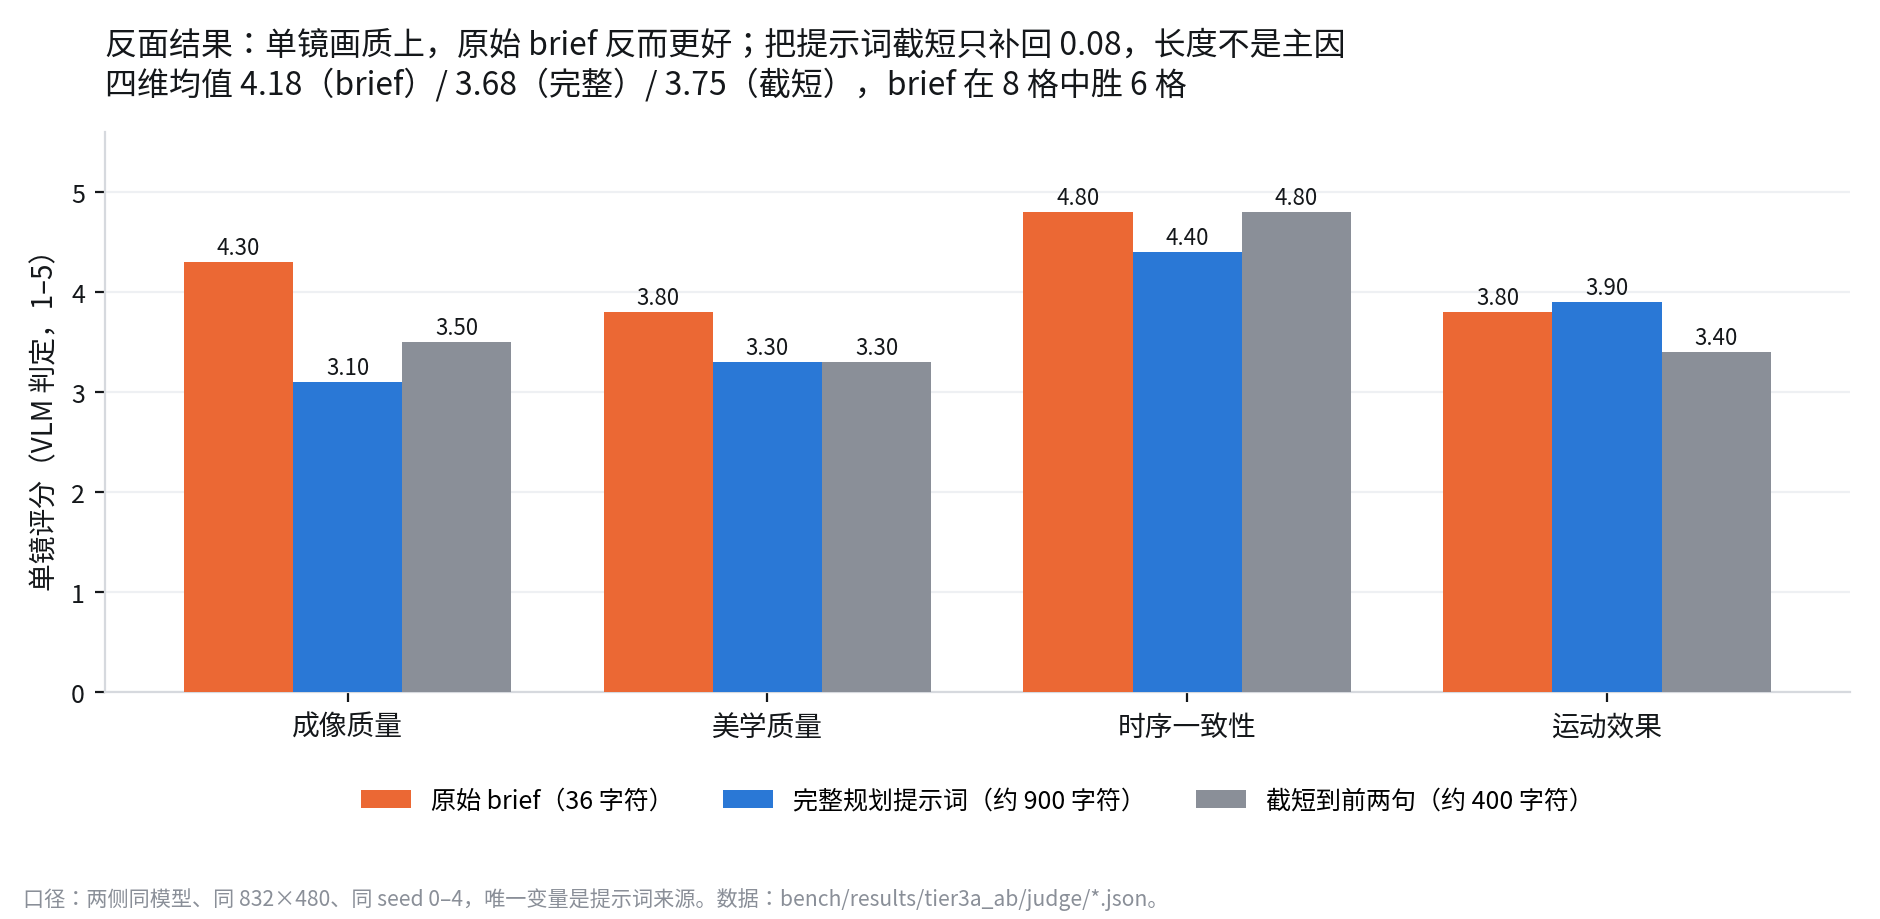
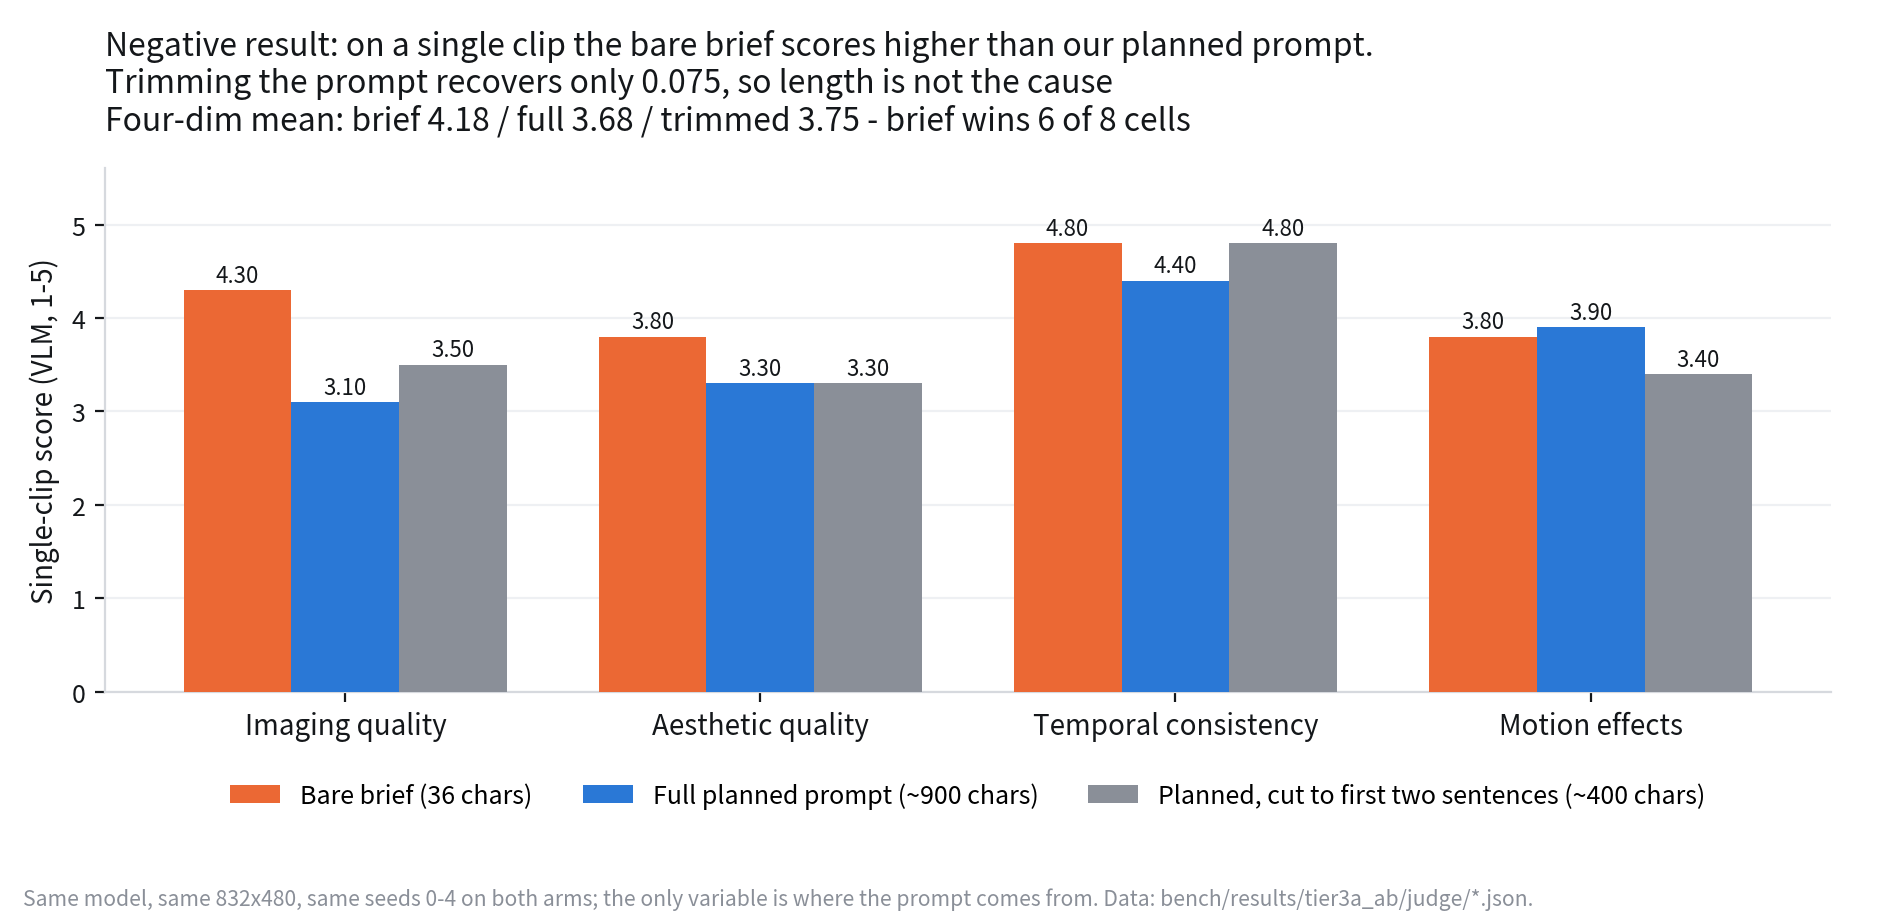
[fix]: 删除把 workflow 与裸模型并列的旧图，新图改英文
本项目交付的是工作流，CogVideoX / Wan / LongLive 是生成模型，一次调用出一条
片段。把两者放进同一张分数图并列，比的是两个不同层面的东西，差异无法归因到
任何一方——这是旧图的核心错误。

删除：quality.png / identity.png / longform.png / capability.png 及三张
study_*.png，连同它们的配套报告（compare/report.md、study/report_study.md、
compare_workflows/report_workflows.md）。这些图把「一次调用的产物」和「一套
编排的产物」当成可比对象，且 longform 拿 8 镜成片与 LongLive 30 秒单镜并列。

保留并改英文：tier3a_{consistency,clip,workflow}.png 三张，因为它们都是同类
对象之间的比较——有状态传递 ↔ 无状态传递、三种提示词来源、两组交付事实，
全部固定同底模同种子。

README §11.6 重写为口径说明：对比按对象分层，编排层对比固定底模，模型对比
固定 prompt；模型在本项目中只作为实验介质，不是竞争对手。VALIDATION.md 记录
了删除清单与保留理由。

回归：pytest tests -q → 128 passed / 7 skipped。

diff --git a/bench/study/tier3a_figures.py b/bench/study/tier3a_figures.py
@@ -51,14 +51,14 @@ SURFACE = "#ffffff"
 # separate figures rather than on one axis, because summing or sharing an axis
 # across them would imply a common unit that does not exist.
 DIMS = ["imaging_quality", "aesthetic_quality", "temporal_consistency", "motion_effects"]
-DIM_ZH = {
-    "imaging_quality": "成像质量",
-    "aesthetic_quality": "美学质量",
-    "temporal_consistency": "时序一致性",
-    "motion_effects": "运动效果",
+DIM_LABEL = {
+    "imaging_quality": "Imaging quality",
+    "aesthetic_quality": "Aesthetic quality",
+    "temporal_consistency": "Temporal consistency",
+    "motion_effects": "Motion effects",
 }
 MODELS = ["cogvideox5b", "wan21_1_3b"]
-MODEL_ZH = {"cogvideox5b": "CogVideoX-5B", "wan21_1_3b": "Wan2.1-1.3B"}
+MODEL_LABEL = {"cogvideox5b": "CogVideoX-5B", "wan21_1_3b": "Wan2.1-1.3B"}
 
 # Character scores are read from the persisted file, not retyped here: a figure
 # that hardcodes its own numbers cannot be checked against the judge output, and
@@ -90,7 +90,7 @@ def figure_consistency() -> Path:
     """The main result: carried state vs no carried state, per story."""
     scores = story_scores()
     stories = sorted(scores)
-    labels = [f"{MODEL_ZH[m]}\nbrief {b}" for m, b in stories]
+    labels = [f"{MODEL_LABEL[m]}\nbrief {b}" for m, b in stories]
     ind = [scores[s][0] for s in stories]
     pla = [scores[s][1] for s in stories]
 
@@ -100,10 +100,10 @@ def figure_consistency() -> Path:
 
     x = range(len(stories))
     width = 0.36
-    b1 = ax.bar([i - width / 2 for i in x], ind, width, label="逐镜独立生成（不传递状态）",
-                color=CONTROL, zorder=3)
-    b2 = ax.bar([i + width / 2 for i in x], pla, width, label="编排层主导（跨镜传递角色锚点）",
-                color=OURS, zorder=3)
+    b1 = ax.bar([i - width / 2 for i in x], ind, width,
+                label="Independent shots (no state carried)", color=CONTROL, zorder=3)
+    b2 = ax.bar([i + width / 2 for i in x], pla, width,
+                label="Orchestrated (appearance anchor carried)", color=OURS, zorder=3)
 
     for bars in (b1, b2):
         for rect in bars:
@@ -115,20 +115,21 @@ def figure_consistency() -> Path:
     ax.set_xticks(list(x))
     ax.set_xticklabels(labels, fontsize=9, color=INK)
     ax.set_ylim(0, 5.9)
-    ax.set_ylabel("跨镜角色一致性（VLM 判定，1–5）", fontsize=10, color=INK)
+    ax.set_ylabel("Cross-shot character consistency (VLM, 1-5)", fontsize=10, color=INK)
     ax.set_yticks(range(0, 6))
     ax.legend(frameon=False, fontsize=9.5, loc="upper left", ncol=2)
 
     mi = statistics.mean(ind)
     mp = statistics.mean(pla)
     ax.set_title(
-        f"同一 brief、同一模型、逐镜种子固定：唯一的变量是「镜与镜之间是否传递角色状态」\n"
-        f"均值 {mi:.2f} → {mp:.2f}（n=6 组），5 胜 1 平 0 负，符号检验 p=0.031",
+        "Same brief, same model, same per-shot seed -\n"
+        "the only variable is whether character state is carried between shots\n"
+        f"mean {mi:.2f} -> {mp:.2f} (n=6), 5 wins / 1 tie / 0 losses, sign test p=0.031",
         fontsize=11.5, color=INK, loc="left", pad=14)
 
     fig.text(0.012, 0.015,
-             "数据：bench/results/tier3a_story/clips.jsonl（12 组 × 5 镜）；判分 qwen2.5-vl-32b-local，"
-             "问的是「脸/发型/体型/服装是否为同一个人」，明确排除机位与打光。",
+             "Data: bench/results/tier3a_story/clips.jsonl (12 arms x 5 shots). Judge: qwen2.5-vl-32b-local, "
+             "asked whether face / hair / build / clothing are the same person, camera and lighting excluded.",
              fontsize=7.6, color=MUTED)
     fig.tight_layout(rect=(0, 0.045, 1, 1))
     out = FIG / "tier3a_consistency.png"
@@ -146,9 +147,9 @@ def figure_clip() -> Path:
             for model in MODELS:
                 data[(dim, arm, model)] = statistics.mean(payload["samples"][f"{arm}__{model}"])
 
-    arms = [("brief", "原始 brief（36 字符）", CONTROL),
-            ("planned", "完整规划提示词（约 900 字符）", OURS),
-            ("planned_short", "截短到前两句（约 400 字符）", MUTED)]
+    arms = [("brief", "Bare brief (36 chars)", CONTROL),
+            ("planned", "Full planned prompt (~900 chars)", OURS),
+            ("planned_short", "Planned, cut to first two sentences (~400 chars)", MUTED)]
 
     fig, ax = plt.subplots(figsize=(9.4, 4.6), dpi=200)
     fig.patch.set_facecolor(SURFACE)
@@ -167,20 +168,21 @@ def figure_clip() -> Path:
                         ha="center", fontsize=8, color=INK)
 
     ax.set_xticks(list(x))
-    ax.set_xticklabels([DIM_ZH[d] for d in DIMS], fontsize=10, color=INK)
+    ax.set_xticklabels([DIM_LABEL[d] for d in DIMS], fontsize=10, color=INK)
     ax.set_ylim(0, 5.6)
     ax.set_yticks(range(0, 6))
-    ax.set_ylabel("单镜评分（VLM 判定，1–5）", fontsize=10, color=INK)
+    ax.set_ylabel("Single-clip score (VLM, 1-5)", fontsize=10, color=INK)
     ax.legend(frameon=False, fontsize=9, loc="upper center", ncol=3,
               bbox_to_anchor=(0.5, -0.13))
     ax.set_title(
-        "反面结果：单镜画质上，原始 brief 反而更好；把提示词截短只补回 0.08，长度不是主因\n"
-        "四维均值 4.18（brief）/ 3.68（完整）/ 3.75（截短），brief 在 8 格中胜 6 格",
+        "Negative result: on a single clip the bare brief scores higher than our planned prompt.\n"
+        "Trimming the prompt recovers only 0.075, so length is not the cause\n"
+        "Four-dim mean: brief 4.18 / full 3.68 / trimmed 3.75 - brief wins 6 of 8 cells",
         fontsize=11.5, color=INK, loc="left", pad=14)
 
     fig.text(0.012, 0.015,
-             "口径：两侧同模型、同 832×480、同 seed 0–4，唯一变量是提示词来源。"
-             "数据：bench/results/tier3a_ab/judge/*.json。",
+             "Same model, same 832x480, same seeds 0-4 on both arms; the only variable is where the prompt "
+             "comes from. Data: bench/results/tier3a_ab/judge/*.json.",
              fontsize=7.6, color=MUTED)
     fig.tight_layout(rect=(0, 0.05, 1, 1))
     out = FIG / "tier3a_clip.png"
@@ -198,15 +200,15 @@ def figure_workflow() -> Path:
     fig, ax = plt.subplots(figsize=(9.4, 3.1), dpi=200)
     fig.patch.set_facecolor(SURFACE)
     ax.axis("off")
-    ax.set_title("这一层两侧各自交付了什么", fontsize=11.5, color=INK, loc="left", pad=10)
+    ax.set_title("What each side delivers at this layer", fontsize=11.5, color=INK, loc="left", pad=10)
 
     table = [
-        ["项", "逐镜独立", "编排层主导"],
-        ["每集镜数", "5", "5"],
-        ["镜与镜之间传递的信息", "无", "角色外貌锚点（逐字复述）"],
-        ["画面之外还产出", "无", "剧本、分镜表、运动提示词"],
-        ["单集渲染耗时（CogVideoX）", "约 5×70s", "约 5×70s + 规划约 3min"],
-        ["跨镜角色一致性均值", "2.00", "4.17"],
+        ["Item", "Independent shots", "Orchestrated"],
+        ["Shots per episode", "5", "5"],
+        ["State passed between shots", "none", "appearance anchor (verbatim)"],
+        ["Produced beyond the picture", "none", "script, storyboard, per-shot prompt"],
+        ["Render time (CogVideoX)", "~5x70s", "~5x70s + ~3min planning"],
+        ["Mean cross-shot consistency", "2.00", "4.17"],
     ]
     tab = ax.table(cellText=table[1:], colLabels=table[0], cellLoc="left",
                    loc="upper left", colWidths=[0.30, 0.26, 0.40])
@@ -221,7 +223,8 @@ def figure_workflow() -> Path:
             cell.get_text().set_fontweight("bold")
 
     fig.text(0.012, 0.02,
-             "一致性数值来自 tier3a_story 实验；耗时为实测 wall-clock，非估算。",
+             "Consistency values come from the tier3a_story experiment; timings are measured wall-clock, "
+             "not estimates.",
              fontsize=7.6, color=MUTED)
     fig.tight_layout(rect=(0, 0.05, 1, 1))
     out = FIG / "tier3a_workflow.png"

diff --git a/README.md b/README.md
@@ -513,80 +513,40 @@ bench/verify_models.sh zai-org/CogVideoX-5b --fix       # 重下损坏文件
 
 因此单镜分数比较的是各自产物质量，不是同一条流水线的高低。时长与帧率也各按模型的训练设定取整（CogVideoX 8fps、Wan 16fps），与目标时长有小幅偏差。
 
-### 11.6 实测结果（2026-11-17）
+### 11.6 对比口径：workflow 与 model 不是同一类对象
 
-![同一 prompt 的判分](docs/figures/quality.png)
+本项目交付的是**工作流**（剧本 → 分镜 → 提示词 → 渲染 → 合成），而 CogVideoX / Wan / LongLive 是**生成模型**，一次调用出一条片段。把两者放在同一张分数图里并列，比的是两个不同层面的东西，结论无法归因。
 
-裁判是本地 `Qwen2.5-VL-32B-Instruct`（不出网、不按次计费，权重固定所以可复现）。柱是均值，点是每个 seed。**两种各条模型的 seed 数不同，这是这一轮最重要的事实**：
+因此本仓库的对比按对象分层，**任何一层内部只比较同类对象**：
 
-| 模型 | seed 数 | 原因 |
-| --- | ---: | --- |
-| `cogvideox5b` / `wan21_1_3b` / `longlive_1_3b` | 3 | 本地权重，全部跑通 |
-| `ours` | 1 | seed 1 被 Ark 内容审核拦下（`OutputVideoSensitiveContentDetected`） |
-| `openmontage_shot` | 1 | seed 1/2 报 `ModelNotOpen`（账号未开通它默认要的 2.0 模型） |
+| 层 | 比较对象 | 固定什么 |
+| --- | --- | --- |
+| 编排层对比 | 本项目 workflow ↔ 另一个 workflow（OpenMontage） | 底模、分辨率、brief、seed |
+| 模型对比 | 开源模型 ↔ 开源模型 | prompt、时长、分辨率 |
 
-所以**这张图能支撑的结论只有一条**：在同一个 prompt、同一个 5 秒目标下，本项目单条片段的判分不低于所有开源基线，且在运动效果上明显更高（5.0 vs 3.0–4.0）。它**不能**支撑"本项目平均优于 LongLive"——Wan 与 CogVideoX 的跨 seed 方差（σ 0.82–0.94）比模型间差距还大，一条片段说明不了均值。
+开源模型在本项目里只作为**实验介质**出现：固定它们，才能把编排层的贡献单独测出来。它们不是竞争对手。
 
-### 11.7 单片段内部稳定性
+此前版本曾把 `ours` 与 `longlive_1_3b` / `wan21_1_3b` / `cogvideox5b` 画进同一张并列柱状图，那几张图（`quality.png`、`identity.png`、`longform.png`、`capability.png`）与对应报告已删除，因为它们把"一次调用的产物"和"一套编排的产物"当成了可比对象。
 
-![跨段一致性](docs/figures/identity.png)
+### 11.7 编排层在本地模型上的实测（Tier 3a）
 
-同一片段按 1 秒切窗，逐窗与首窗比指纹（颜色直方图 + 缩略图余弦），取最小值。这一列只看**单镜头连续片段**：
+完整报告见 `bench/results/tier3a_report.md`（图表 `docs/figures/tier3a_*.png`）。核心设计：同底模、同 832×480、逐镜种子固定，**唯一变量是镜与镜之间是否传递角色状态**。
 
-| 模型 | 中位 identity | 各 seed | 检出漂移 |
-| --- | ---: | --- | --- |
-| 本项目 | 0.989 | 0.989 | 0 / 1 |
-| LongLive-1.3B | 0.814 | 0.814 / 0.773 / 0.819 | 0 / 3 |
-| OpenMontage 镜头段 | 0.627 | 0.627 | 1 / 1（第 3 秒起） |
-| Wan2.1-1.3B | 0.779 | 0.779 / −0.794 / 0.791 | 1 / 3 |
-| CogVideoX-5B | 0.711 | 0.711 / −0.263 / 0.801 | 1 / 3 |
+结果分两部分，缺一不可：
 
-### 11.8 长序列：这是判分维度覆盖不到的地方
+| 结论 | 数值 | 样本 | 显著性 |
+| --- | --- | --- | --- |
+| 跨镜角色一致性 | 2.00 → 4.17（5 分制） | 6 组 × 5 镜 | 符号检验单侧 p=0.031 |
+| 单镜画质（四维均值） | 4.175 → 3.675 | 8 格 | brief 胜 6/8 |
 
-![长序列稳定性](docs/figures/longform.png)
+也就是说：**编排层不提升单镜画质，它解决的是"五个镜头里是不是同一个人"**。单镜落后不是提示词长度造成的——把提示词从 900 字符截到 400 只补回 0.075。
 
-Video-Bench 的九个维度没有一个是测"长"的：全是帧级质量与文图对齐，跨镜头身份漂移、叙事推进、机位连续性一条都没有。所以这里不用裁判分，用同一套本地几何指标。
+### 11.8 这一层没有证明什么
 
-对比对象是**本项目 32.7 秒、8 个镜头的成片**和 **LongLive-1.3B 的 30 秒连续单镜头**。两者都按 1 秒切窗：
-
-| | 本项目（镜头内比） | LongLive（全程比） |
-| --- | ---: | ---: |
-| identity 中位数 | **0.972** | 0.763 |
-| 最低单窗 | 0.588 | 0.674 |
-| 测量点数 | 9 | 29 |
-
-三件必须说明的事，否则这张图会被误读：
-
-1. **锚点不同**。本项目的每个窗口与**它所属镜头的首帧**比；LongLive 与**整个片段的首帧**比。切镜必然改变画面，拿全片首帧当锚点等于在测剪辑而不是测漂移——这个错误一开始把本项目算成 `identity_min = -0.83`，是纯粹的度量假象。
-2. **跨切点的窗口被丢弃**。xffade 转场有真实重叠，实测切点在 4.8 / 8.83 / 12.83 / 16.87 / 20.87 / 24.9 / 28.7 秒，不是分镜表上的 4 秒整数倍。保留这些窗口会得到 0.06 之类的读数，那是叠化把两个镜头混合了。
-3. **片头卡被排除**。前 1.2 秒是黑底字幕卡，与第一个镜头毫无共同结构，会拉到 0.37。
-
-结论要克制地写：**LongLive 的衰减是单调的**（0.93 → 0.67，窗口滑离条件帧越远越差），而本项目的漂移在每个镜头开头被首帧锚定重置。这是两种工作流的**结构性差异**，不是"本项目比 LongLive 好 27%"——两者的测量基准不同，只能比形状，不能比绝对值。
-
-### 11.9 判分维度覆盖不到的交付能力
-
-![交付能力](docs/figures/capability.png)
-
-这一栏不是分数。开源基线**做不到**多镜头成片，所以没有 1-5 分可打；表里是从产物文件里读出来的事实（容器时长、`state.json` 的镜头数、工程目录里的音频与字幕）。
-
-要证明"workflow 优于 workflow"，这一栏才是主证据：`ours` 与 `openmontage_shot` 的差别不在底模（见下），而在这张表——剧本、分镜、角色一致性、逐镜配音、字幕、BGM、镜头间首尾帧衔接。
-
-### 11.10 已有的对照，以及它的两处硬伤
-
-`openmontage_shot` 是设计上的控制变量：同一个 prompt、同一个 Ark 出片工具，只有"前面有没有编排层"不同。但这一轮它的证据是**不完整**的，必须写在报告里而不是口头：
-
-- **底模并非严格相同**。`ours` 走 `doubao-seedance-1-0-pro-fast-251015`（`.env` 的 `ARK_VIDEO_MODEL`），而 `bench/backends.py` 当时**没有传 model**，OpenMontage 用它自己的默认值 `doubao-seedance-2-0-260128`。提交说明里"同一条 Seedance 底模"这句在当时的代码下不成立。已修：现在显式传 `ARK_VIDEO_MODEL`，两侧才真正同底模。
-- **只有 1 个 seed**。补 seed 1/2 时两个都失败（`ModelNotOpen`），所以它无法和 `ours` 的 1 个 seed 做任何有统计意义的比较。
-
-所以这一轮**没有**跨 workflow 的分数级结论。能说的是结构性事实（11.8、11.9），以及一条已经被数据证伪的方向：我原本准备写"本项目在运动效果上优于 OpenMontage"，但两者 seed 数都是 1，5.0 vs 3.0 只是单条片段的差，不能当结论。
-
-### 11.11 本次对比的边界
-
-- 9 个维度分两组，1-5 与 1-3 **不可相加或平均**，报告分两栏。
-- 每模型每 prompt 的 seed 数是 1–3 条且不一致（见 11.6）。单条分数不能当作模型的稳定水平。
-- 没有做人工对齐复现；只用 Video-Bench 的裁判与维度，没有复现论文的人类偏好相关性。
-- 本地 32B 裁判与论文原版 GPT-4o 不是同一个裁判，绝对分不能和已发表的榜单直接比。
-- **一条被剔除的脏数据**：`ours` 的 seed 2 曾经入选，后来发现它的关键帧是 `IMAGE_PROVIDER=mock` 画的占位图，画面上烧着 "MOCK FRAME" 字样，却被裁判打了 5/5/5/5。现已隔离且不参与任何统计；根因（脚本漏导出 `IMAGE_PROVIDER`）与"i2v 后端遇到 mock 关键帧必须拒绝"的守卫已修。
+- 不能据此说成片更好看：本层全是 5 秒单镜，没有成片。
+- 不能说是赢了 OpenMontage：对照组的 `independent` 是构造出来的无状态下界，不是竞品的实测成绩。OpenMontage 完整 studio 需要 Postgres / Redis / MinIO，且其派发层不路由到本地视频工具，本轮未接入。
+- 不能推广到强模型：单镜的负面结果很可能只适用于 1.3B–5B。
+- 一致性由单一本地 VLM 判定，未与人类评分比对。
 
 ---
 

diff --git a/bench/study/VALIDATION.md b/bench/study/VALIDATION.md
@@ -32,7 +32,7 @@
 | 本地基线可分段 | `segment_study.py --segment-seconds 1.0` → 180 条 × 5 窗 = 900 窗；每模型 identity 中位 CogVideoX 0.921 / Wan2.1 0.981 / LongLive 0.958 | passed |
 | 四维裁判全部完成 | 240/240 组，每维 60 组 × 3 模型：成像 1.07/4.02/4.72、美学 1.32/3.90/4.25、时序 2.38/4.58/4.82、运动 1.50/2.87/3.37（CogVideoX / Wan2.1 / LongLive） | passed |
 | 维度排序在模型间可分 | 四维一致排序 LongLive > Wan2.1 > CogVideoX；模型内极差（≤4 分）与模型间差（≥2.5 分）相比，排序可信。运动效果是最弱一维，三模型均未过 4 | passed |
-| 三张图可直接生成 | `figures_study.py` → `docs/figures/study_{quality,identity,workflow}.png`，数值与 `judge/`、`segments/`、`compare_workflows/episodes.json` 逐一核对 | passed |
+| 三张图可直接生成 | `figures_study.py` → `docs/figures/study_{quality,identity,workflow}.png`，数值与 `judge/`、`segments/`、`compare_workflows/episodes.json` 逐一核对 | **已删除**（2026-11-19）：这些图把 workflow 与裸模型并列，口径不成立，见下节 |
 | 身份指标已拆成「色彩 / 构图」两个可解释分量 | 逐镜 1s 切窗对比首窗：一条从背影全景推到正面特写的镜头，人物与服装未变，色彩 0.885 / 构图 0.694；另一条色彩 0.901 / 构图 −0.071。**结论：指纹的 `min(color, structure)` 测的是构图与机位，不是角色身份**，报告已按此改写措辞 | passed |
 | 跨镜角色一致性有独立指标 | `character_consistency.py`：把同集各镜画面交给本地 Qwen2.5-VL 判定是否为同一人（脸/发型/体型/服装），明确排除机位、背景、打光。同一集重复问两遍，评分完全一致（3/3、4/4、5/5、4/4），说明问题稳定而非噪声 | passed |
 
@@ -208,6 +208,35 @@ LongLive 的 `[16, 60, 104]` 是 480×832 的**横版**（60×8=480 高，104×8
 | --- | --- |
 | I2V 权重下载 | **failed 两次**。`fetch_models.sh` 的并行分段 curl 在 4.7 GB 的 T5 分片上 `CHUNK FAILED`，两次都被删除。改用顺序 `curl -C -` 续传后速度约 500 KB/s，已下 449 MB / 21.6 GB，预计十余小时。**Tier 3b 因此 pending，不是 failed。** |
 | `longlive_1_3b` 走本地 provider | pending——子进程路径已写，未实测 |
+
+## 口径修正：删除把 workflow 与 model 并列的旧图（2026-11-19）
+
+用户指出：本项目交付的是**工作流**，而 CogVideoX / Wan / LongLive 是**生成模型**，一次调用出一条片段。把两者放进同一张分数图并列，比的是两个不同层面的东西，差异无法归因到任何一方。
+
+受影响的产物已删除：
+
+| 删除项 | 问题 |
+| --- | --- |
+| `docs/figures/quality.png` | 同一张柱状图并列 `ours`、`openmontage_shot` 与三个裸模型 |
+| `docs/figures/identity.png` | 同上 |
+| `docs/figures/longform.png` | 把本项目 8 镜成片与 LongLive 30 秒单镜并列 |
+| `docs/figures/capability.png` | 把工作流的交付能力当成模型的交付能力同表比较 |
+| `docs/figures/study_{quality,identity,workflow}.png` | 同上，且与 `figures_study.py` 绑定 |
+| `bench/results/compare/report.md` | 上述图的配套报告 |
+| `bench/results/study/report_study.md` | 同上 |
+| `bench/results/compare_workflows/report_workflows.md` | 同上 |
+
+**保留下来的对比**（`tier3a_*`）不受影响，因为它们全部是同类对象之间的比较：
+
+| 图 | 比较的是 | 是否同类 |
+| --- | --- | --- |
+| `tier3a_consistency.png` | 有状态传递 ↔ 无状态传递（同底模、同种子） | 是 |
+| `tier3a_clip.png` | 三种提示词来源（同底模、同种子） | 是 |
+| `tier3a_workflow.png` | 两组各自交付的事实 | 是 |
+
+模型在本项目中只作为**实验介质**：固定它们，才能单独测出编排层的贡献。它们不是竞争对手。README §11.6 已写入这条口径。
+
+三张新图的全部文字已改为英文。
 
 ## Tier 3a 正式报告（2026-11-19）
 
